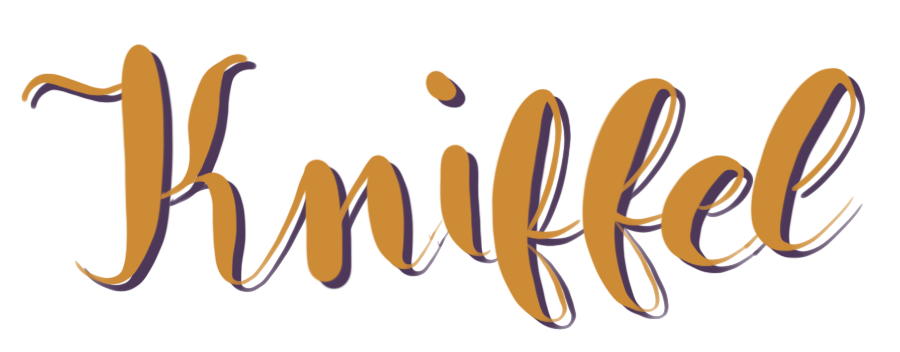
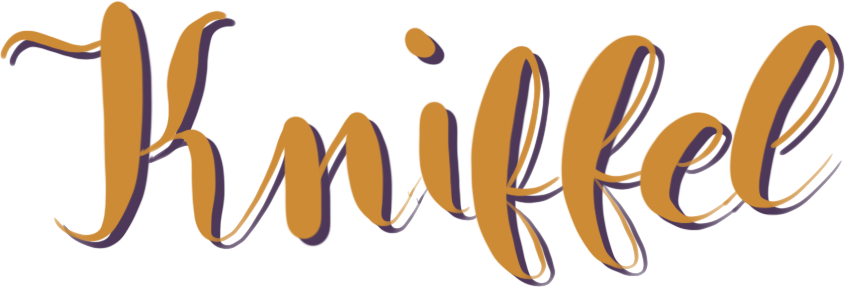
v3

Changed region(s): [[0.0, 0.0, 1.0, 1.0], [0.4615, 0.0836, 0.5231, 0.3066]]

diff --git a/js/sketch.js b/js/sketch.js
@@ -4,6 +4,11 @@ import Row from "./board.js";
 import Sum from "./sum.js";
 import restartButton from "./restartButton.js";
 
+let kniffel;
+function preload() {
+  kniffel = loadImage("assets/kniffel.png");
+}
+
 let state = [0];
 let counterClick = [0];
 
@@ -41,7 +46,7 @@ let row6 = new Row(
   state
 );
 let sum = new Sum(150, 340, 110, 30, "Gesamt: ", dice, 6);
-let restart = new restartButton(280, 70, 110, 30, "Neustart", state);
+let restart = new restartButton(500, 275, 110, 30, "Neustart", state);
 
 function startScreen() {
   if (mouseIsPressed) {
@@ -53,11 +58,12 @@ function startScreen() {
   noStroke();
   fill("#cd8b36");
 
-  //image(kniffel, 100, 100, 100, 100);
+  imageMode(CENTER);
+  image(kniffel, windowWidth / 2, 200, 700, 238);
 
   textAlign(CENTER, CENTER);
   textSize(15);
-  text("C L I C K  A N Y W H E R E", windowWidth / 2, 100);
+  text("K  L  I  C  K", windowWidth / 2, 400);
 }
 
 function mouseClicked() {
@@ -97,9 +103,12 @@ function draw() {
     rollAll.display();
     sum.display();
     restart.display();
+
+    image(kniffel, 550, 175, 500, 170);
   }
 }
 
+window.preload = preload;
 window.startScreen = startScreen;
 window.mouseClicked = mouseClicked;
 window.draw = draw;
